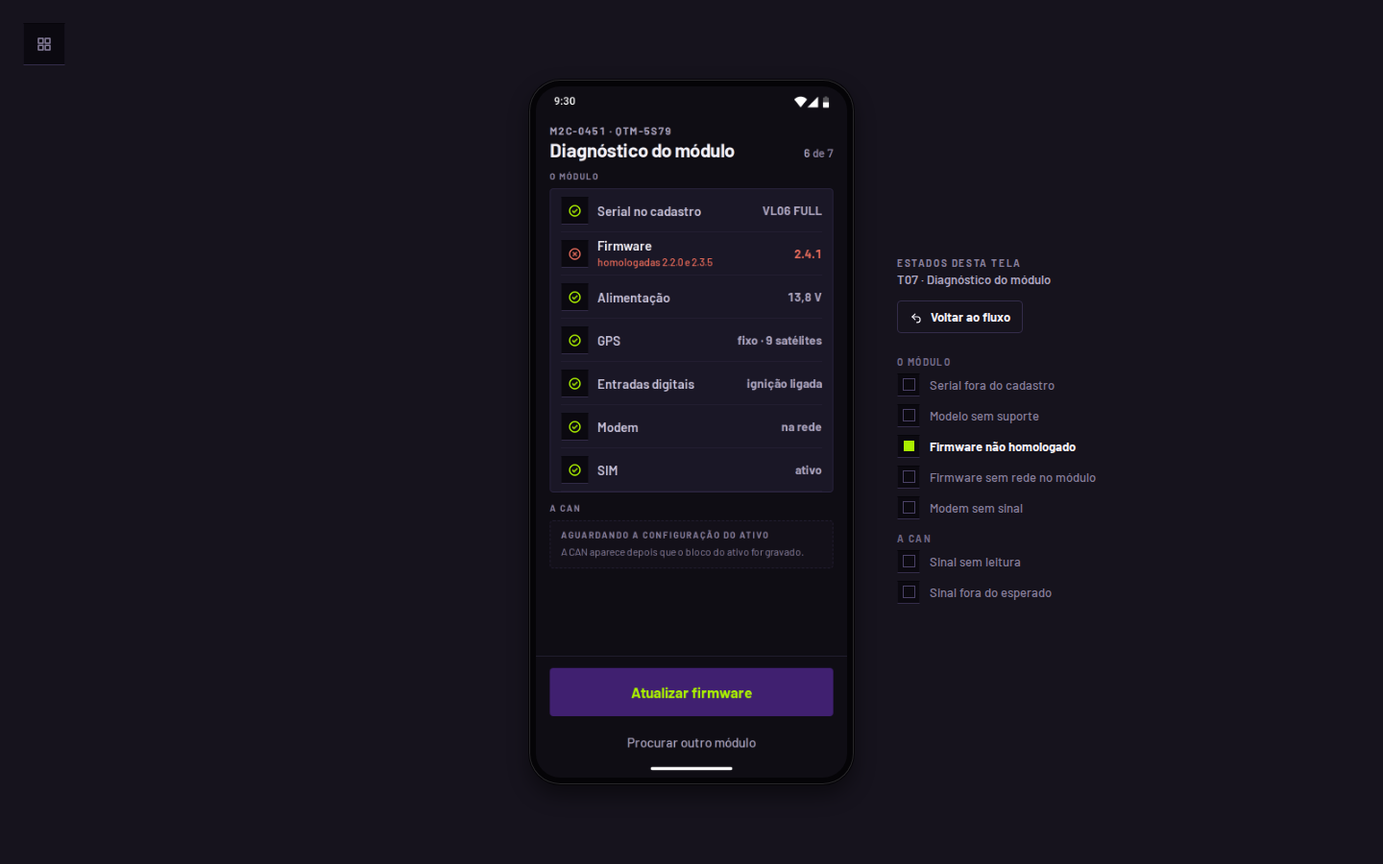
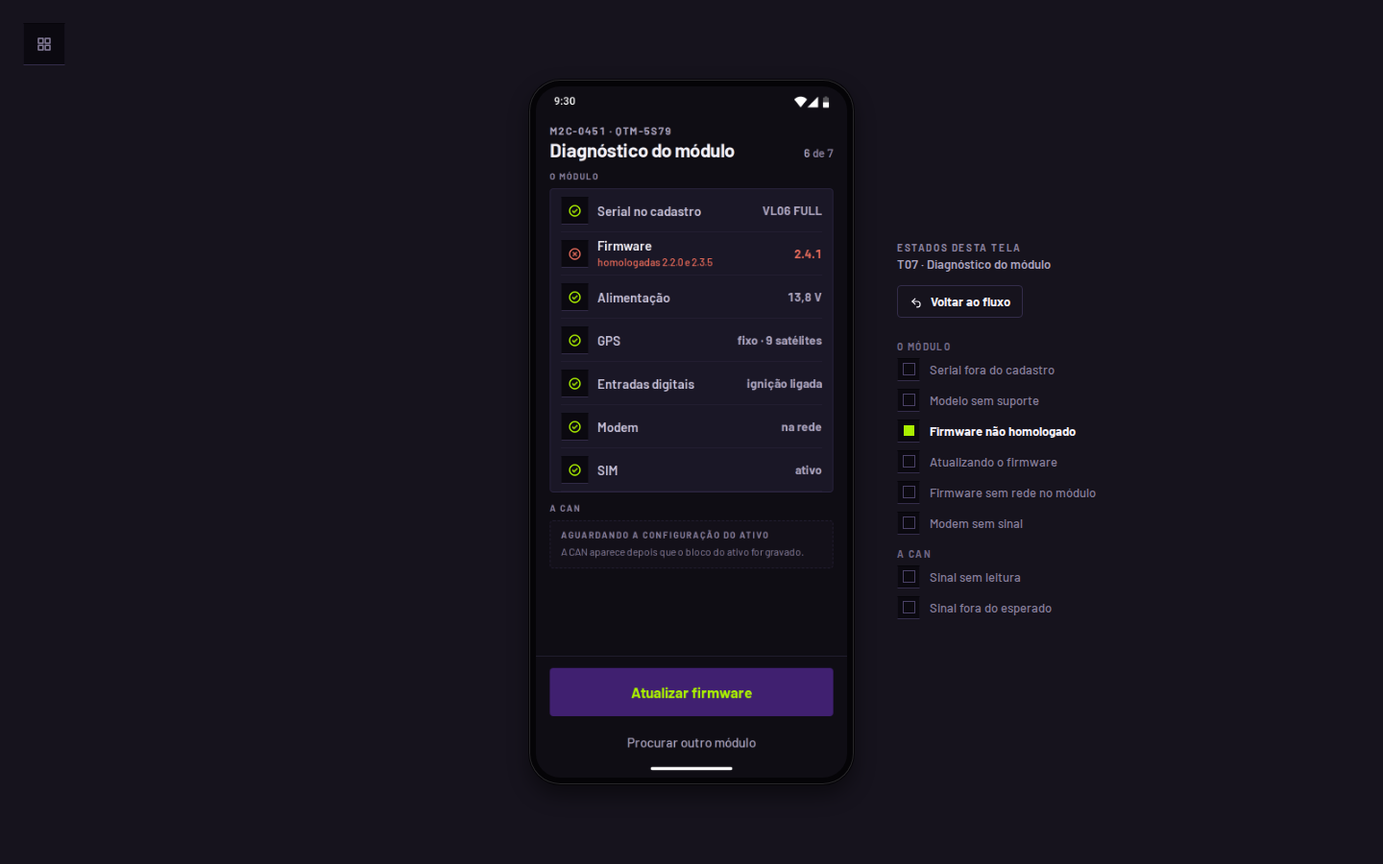
complemento do pacote 6 · o fim do ciclo e a coluna do palco, e o README de protótipo com a propriedade da empresa
A T14/05 diz Ir para o checklist, que serve pras duas portas de entrada. Na coluna do palco, o momento que nasce de um estado entra logo depois dele e abre parado: a T07/06 depois da T07/04 e a T14/06 depois da T14/04. Resultado: 153 referências sem erro e os 43 roteiros aprovados.

O README passa a dizer, no título e no topo, que isto é um protótipo, não o produto, e ganha a seção Propriedade e uso, com a razão social e o CNPJ. Entram também o LICENSE e a licença da Barlow, que faltava. O repositório agora se chama mobs2-configurador-prototipo.

Changed region(s): [[0.625, 0.28, 0.7812, 0.7156]]

diff --git a/06-prototipo/palco/referencias/html/02-num-estado.html b/06-prototipo/palco/referencias/html/02-num-estado.html
@@ -17,7 +17,7 @@ a { color: inherit; text-decoration: none; }
 <div style="position: absolute; left: 934px; top: 78px; width: 230px; display: flex; flex-direction: column; gap: 14px; height: 744px; justify-content: center;">
 <div style="display: flex; flex-direction: column; gap: 3px;"><span style="font-size: 10px; font-weight: 700; letter-spacing: 1.6px; color: #867E9A;">ESTADOS DESTA TELA</span><span style="font-size: 13px; font-weight: 600; color: #A9A2BC;">T07 · Diagnóstico do módulo</span></div>
 <a href="#fluxo" style="height: 34px; box-sizing: border-box; display: flex; align-items: center; gap: 8px; padding: 0 12px; background: #16131D; border: 1px solid #332C49; border-radius: 4px; font-size: 13px; font-weight: 700; color: #F2F0F7; align-self: flex-start;"><svg width="14" height="14" viewBox="0 0 24 24" fill="none" stroke="#F2F0F7" stroke-width="2" stroke-linecap="round" stroke-linejoin="round" aria-hidden="true"><path d="M10 7l-5 5 5 5"></path><path d="M5 12h9a5 5 0 010 10h-1"></path></svg>Voltar ao fluxo</a>
-<div role="radiogroup" aria-label="Estados desta tela" style="display: flex; flex-direction: column;"><span style="font-size: 10px; font-weight: 700; letter-spacing: 1.4px; color: #6E6683; padding: 10px 0 2px 0;">O MÓDULO</span><a href="#e" role="radio" aria-checked="false" style="height: 32px; display: flex; align-items: center; gap: 10px;"><span style="width: 24px; height: 24px; box-sizing: border-box; flex-shrink: 0; background: #0B0910; border-top: 1px solid #06050A; border-bottom: 1px solid #332C49; border-left: 1px solid #14111C; border-right: 1px solid #14111C; display: flex; align-items: center; justify-content: center;"><span style="width: 11px; height: 11px; border: 1px solid #4A4166; display: block;"></span></span><span style="font-size: 13px; font-weight: 500; color: #867E9A;">Serial fora do cadastro</span></a><a href="#e" role="radio" aria-checked="false" style="height: 32px; display: flex; align-items: center; gap: 10px;"><span style="width: 24px; height: 24px; box-sizing: border-box; flex-shrink: 0; background: #0B0910; border-top: 1px solid #06050A; border-bottom: 1px solid #332C49; border-left: 1px solid #14111C; border-right: 1px solid #14111C; display: flex; align-items: center; justify-content: center;"><span style="width: 11px; height: 11px; border: 1px solid #4A4166; display: block;"></span></span><span style="font-size: 13px; font-weight: 500; color: #867E9A;">Modelo sem suporte</span></a><a href="#e" role="radio" aria-checked="true" style="height: 32px; display: flex; align-items: center; gap: 10px;"><span style="width: 24px; height: 24px; box-sizing: border-box; flex-shrink: 0; background: #0B0910; border-top: 1px solid #06050A; border-bottom: 1px solid #332C49; border-left: 1px solid #14111C; border-right: 1px solid #14111C; display: flex; align-items: center; justify-content: center;"><span style="width: 11px; height: 11px; background: #AAEF00; display: block;"></span></span><span style="font-size: 13px; font-weight: 700; color: #F2F0F7;">Firmware não homologado</span></a><a href="#e" role="radio" aria-checked="false" style="height: 32px; display: flex; align-items: center; gap: 10px;"><span style="width: 24px; height: 24px; box-sizing: border-box; flex-shrink: 0; background: #0B0910; border-top: 1px solid #06050A; border-bottom: 1px solid #332C49; border-left: 1px solid #14111C; border-right: 1px solid #14111C; display: flex; align-items: center; justify-content: center;"><span style="width: 11px; height: 11px; border: 1px solid #4A4166; display: block;"></span></span><span style="font-size: 13px; font-weight: 500; color: #867E9A;">Firmware sem rede no módulo</span></a><a href="#e" role="radio" aria-checked="false" style="height: 32px; display: flex; align-items: center; gap: 10px;"><span style="width: 24px; height: 24px; box-sizing: border-box; flex-shrink: 0; background: #0B0910; border-top: 1px solid #06050A; border-bottom: 1px solid #332C49; border-left: 1px solid #14111C; border-right: 1px solid #14111C; display: flex; align-items: center; justify-content: center;"><span style="width: 11px; height: 11px; border: 1px solid #4A4166; display: block;"></span></span><span style="font-size: 13px; font-weight: 500; color: #867E9A;">Modem sem sinal</span></a><span style="font-size: 10px; font-weight: 700; letter-spacing: 1.4px; color: #6E6683; padding: 10px 0 2px 0;">A CAN</span><a href="#e" role="radio" aria-checked="false" style="height: 32px; display: flex; align-items: center; gap: 10px;"><span style="width: 24px; height: 24px; box-sizing: border-box; flex-shrink: 0; background: #0B0910; border-top: 1px solid #06050A; border-bottom: 1px solid #332C49; border-left: 1px solid #14111C; border-right: 1px solid #14111C; display: flex; align-items: center; justify-content: center;"><span style="width: 11px; height: 11px; border: 1px solid #4A4166; display: block;"></span></span><span style="font-size: 13px; font-weight: 500; color: #867E9A;">Sinal sem leitura</span></a><a href="#e" role="radio" aria-checked="false" style="height: 32px; display: flex; align-items: center; gap: 10px;"><span style="width: 24px; height: 24px; box-sizing: border-box; flex-shrink: 0; background: #0B0910; border-top: 1px solid #06050A; border-bottom: 1px solid #332C49; border-left: 1px solid #14111C; border-right: 1px solid #14111C; display: flex; align-items: center; justify-content: center;"><span style="width: 11px; height: 11px; border: 1px solid #4A4166; display: block;"></span></span><span style="font-size: 13px; font-weight: 500; color: #867E9A;">Sinal fora do esperado</span></a></div>
+<div role="radiogroup" aria-label="Estados desta tela" style="display: flex; flex-direction: column;"><span style="font-size: 10px; font-weight: 700; letter-spacing: 1.4px; color: #6E6683; padding: 10px 0 2px 0;">O MÓDULO</span><a href="#e" role="radio" aria-checked="false" style="height: 32px; display: flex; align-items: center; gap: 10px;"><span style="width: 24px; height: 24px; box-sizing: border-box; flex-shrink: 0; background: #0B0910; border-top: 1px solid #06050A; border-bottom: 1px solid #332C49; border-left: 1px solid #14111C; border-right: 1px solid #14111C; display: flex; align-items: center; justify-content: center;"><span style="width: 11px; height: 11px; border: 1px solid #4A4166; display: block;"></span></span><span style="font-size: 13px; font-weight: 500; color: #867E9A;">Serial fora do cadastro</span></a><a href="#e" role="radio" aria-checked="false" style="height: 32px; display: flex; align-items: center; gap: 10px;"><span style="width: 24px; height: 24px; box-sizing: border-box; flex-shrink: 0; background: #0B0910; border-top: 1px solid #06050A; border-bottom: 1px solid #332C49; border-left: 1px solid #14111C; border-right: 1px solid #14111C; display: flex; align-items: center; justify-content: center;"><span style="width: 11px; height: 11px; border: 1px solid #4A4166; display: block;"></span></span><span style="font-size: 13px; font-weight: 500; color: #867E9A;">Modelo sem suporte</span></a><a href="#e" role="radio" aria-checked="true" style="height: 32px; display: flex; align-items: center; gap: 10px;"><span style="width: 24px; height: 24px; box-sizing: border-box; flex-shrink: 0; background: #0B0910; border-top: 1px solid #06050A; border-bottom: 1px solid #332C49; border-left: 1px solid #14111C; border-right: 1px solid #14111C; display: flex; align-items: center; justify-content: center;"><span style="width: 11px; height: 11px; background: #AAEF00; display: block;"></span></span><span style="font-size: 13px; font-weight: 700; color: #F2F0F7;">Firmware não homologado</span></a><a href="#e" role="radio" aria-checked="false" style="height: 32px; display: flex; align-items: center; gap: 10px;"><span style="width: 24px; height: 24px; box-sizing: border-box; flex-shrink: 0; background: #0B0910; border-top: 1px solid #06050A; border-bottom: 1px solid #332C49; border-left: 1px solid #14111C; border-right: 1px solid #14111C; display: flex; align-items: center; justify-content: center;"><span style="width: 11px; height: 11px; border: 1px solid #4A4166; display: block;"></span></span><span style="font-size: 13px; font-weight: 500; color: #867E9A;">Atualizando o firmware</span></a><a href="#e" role="radio" aria-checked="false" style="height: 32px; display: flex; align-items: center; gap: 10px;"><span style="width: 24px; height: 24px; box-sizing: border-box; flex-shrink: 0; background: #0B0910; border-top: 1px solid #06050A; border-bottom: 1px solid #332C49; border-left: 1px solid #14111C; border-right: 1px solid #14111C; display: flex; align-items: center; justify-content: center;"><span style="width: 11px; height: 11px; border: 1px solid #4A4166; display: block;"></span></span><span style="font-size: 13px; font-weight: 500; color: #867E9A;">Firmware sem rede no módulo</span></a><a href="#e" role="radio" aria-checked="false" style="height: 32px; display: flex; align-items: center; gap: 10px;"><span style="width: 24px; height: 24px; box-sizing: border-box; flex-shrink: 0; background: #0B0910; border-top: 1px solid #06050A; border-bottom: 1px solid #332C49; border-left: 1px solid #14111C; border-right: 1px solid #14111C; display: flex; align-items: center; justify-content: center;"><span style="width: 11px; height: 11px; border: 1px solid #4A4166; display: block;"></span></span><span style="font-size: 13px; font-weight: 500; color: #867E9A;">Modem sem sinal</span></a><span style="font-size: 10px; font-weight: 700; letter-spacing: 1.4px; color: #6E6683; padding: 10px 0 2px 0;">A CAN</span><a href="#e" role="radio" aria-checked="false" style="height: 32px; display: flex; align-items: center; gap: 10px;"><span style="width: 24px; height: 24px; box-sizing: border-box; flex-shrink: 0; background: #0B0910; border-top: 1px solid #06050A; border-bottom: 1px solid #332C49; border-left: 1px solid #14111C; border-right: 1px solid #14111C; display: flex; align-items: center; justify-content: center;"><span style="width: 11px; height: 11px; border: 1px solid #4A4166; display: block;"></span></span><span style="font-size: 13px; font-weight: 500; color: #867E9A;">Sinal sem leitura</span></a><a href="#e" role="radio" aria-checked="false" style="height: 32px; display: flex; align-items: center; gap: 10px;"><span style="width: 24px; height: 24px; box-sizing: border-box; flex-shrink: 0; background: #0B0910; border-top: 1px solid #06050A; border-bottom: 1px solid #332C49; border-left: 1px solid #14111C; border-right: 1px solid #14111C; display: flex; align-items: center; justify-content: center;"><span style="width: 11px; height: 11px; border: 1px solid #4A4166; display: block;"></span></span><span style="font-size: 13px; font-weight: 500; color: #867E9A;">Sinal fora do esperado</span></a></div>
 </div>
 </div>
 </body>

diff --git a/06-prototipo/app/src/telas/T14/index.jsx b/06-prototipo/app/src/telas/T14/index.jsx
@@ -63,7 +63,7 @@ import './t14.css'
 // prazo acabou sem o evento) · 'concluido'. tique: os segundos de prazo desde o disparo.
 function inicio(momento, est, unico) {
   const doCaso = { [REF.estourado]: CASO_SEM_RESPOSTA, [REF.fora]: CASO_MOTOR, [REF.identificador]: CASO_IDENTIFICADOR }[est]
-    ?? (momento === REF.corrigida ? CASO_IDENTIFICADOR : null)
+    ?? (momento === REF.corrigida || est === REF.corrigida ? CASO_IDENTIFICADOR : null)
   const par = doCaso ? parDoCaso(doCaso) : parDaSessao(unico.sessao)
   // num estado da coluna, o caso vale sempre (a receita); no fluxo, uma vez por sessão
   const casos = casosDoPar(par, est ? [] : unico.casosConsumidos)
@@ -73,9 +73,11 @@ function inicio(momento, est, unico) {
   if (est === REF.estourado) return { ...base, fase: 'estourado', tique: PRAZO, passos: passosFeitos(lista, casos) }
   // o pacote 6: o identificador (04, 06) para na vez da ignição — a ré e a porta feitas, o
   // cartão reprovado na vez dele; os outros estados, no quadro da 00
-  if (est === REF.identificador || momento === REF.corrigida) {
+  // a 06 também abre pela coluna, parada, logo depois da 04 (o complemento do pacote 6: `depoisDe`)
+  const corrigida = momento === REF.corrigida || est === REF.corrigida
+  if (est === REF.identificador || corrigida) {
     const tique = tiqueDe(lista, CHAVE.cartao)
-    return { ...base, fase: 'correndo', tique, passos: passosAte(lista, casos, tique), correcao: momento === REF.corrigida }
+    return { ...base, fase: 'correndo', tique, passos: passosAte(lista, casos, tique), correcao: corrigida }
   }
   if (est != null) return { ...base, fase: 'correndo', tique: QUADRO_00, passos: passosNaEntrada(lista, casos) }
   // a 07 e a 08 (o pacote 6): a vez da porta e a do cartão, pela URL, paradas
@@ -297,7 +299,8 @@ export default function T14({ momento, estado: est }) {
   } else if (estourado) {
     rodape = <Rodape primario={T.dispararOutro} aoPrimario={dispararOutro} link={T.irAoChecklist} aoLink={irAoChecklist} />
   } else if (fase === 'concluido') {
-    rodape = <Rodape primario={T.voltarAoChecklist} aoPrimario={() => ir('T13')} link={T.voltarAoMenu} aoLink={() => ir('T04')} />
+    // o complemento do pacote 6: Ir para o checklist, que vale pras duas portas de entrada (a calibração e o checklist)
+    rodape = <Rodape primario={T.irAoChecklist} aoPrimario={() => ir('T13')} link={T.voltarAoMenu} aoLink={() => ir('T04')} />
   } else if (cartaoReprovado) {
     rodape = (
       <Rodape primario={T.encerrarCiclo} aoPrimario={encerrarCiclo} primarioTrocaTexto primarioAcende

diff --git a/06-prototipo/app/src/palco/telas.js b/06-prototipo/app/src/palco/telas.js
@@ -16,7 +16,13 @@ export const REFERENCIAS = indice.itens
 // a coluna (o pacote 3, D2): quem entra é o campo `coluna` do indice.json — falso pros estados que abrem
 // por um toque (as três folhas de trocar da T04: a 08, a 09 e a 14), e, sem o campo, o estado entra. Fora
 // da coluna, o estado continua abrindo pelo endereço
-export const estadosDa = (tela) => REFERENCIAS.filter((r) => r.tela === tela && r.tipo === 'estado' && r.coluna !== false)
+// os estados da coluna, e o momento que nasce de dentro de um estado, logo depois dele (o
+// complemento do pacote 6: `coluna` verdadeiro e `depoisDe`, no indice.json) — abre parado, como os estados
+export const estadosDa = (tela) => {
+  const estados = REFERENCIAS.filter((r) => r.tela === tela && r.tipo === 'estado' && r.coluna !== false)
+  const filhos = REFERENCIAS.filter((r) => r.tela === tela && r.tipo === 'momento' && r.coluna === true && r.depoisDe)
+  return estados.flatMap((e) => [e, ...filhos.filter((m) => m.depoisDe === e.id)])
+}
 export const momentosDa = (tela) => REFERENCIAS.filter((r) => r.tela === tela && r.tipo === 'momento')
 // a regra dos seis (palco.md): com mais de seis estados na coluna, eles se agrupam — só a T07, pelo `grupo` do indice.json
 export const GRUPOS = { T07: [['modulo', 'O módulo'], ['can', 'A CAN']] }

diff --git a/02-telas/T14-ciclo-dinamico/referencias/html/05-momento-ciclo-concluido.html b/02-telas/T14-ciclo-dinamico/referencias/html/05-momento-ciclo-concluido.html
@@ -89,7 +89,7 @@ a { color: inherit; text-decoration: none; }
         </div> </div>
   </div>
   <div style="flex-shrink: 0; padding: 13px 16px 24px 16px; box-sizing: border-box; display: flex; flex-direction: column; gap: 8px; border-top: 1px solid #221D2E;">
-    <a href="#p" style="height: 56px; border-radius: 4px; background: #402070; color: #AAEF00; font-size: 17px; font-weight: 700; display: flex; align-items: center; justify-content: center; text-decoration: none;">Voltar ao checklist</a>
+    <a href="#p" style="height: 56px; border-radius: 4px; background: #402070; color: #AAEF00; font-size: 17px; font-weight: 700; display: flex; align-items: center; justify-content: center; text-decoration: none;">Ir para o checklist</a>
     <a href="#l" style="height: 44px; margin: 0 0 -5px 0; color: #A9A2BC; font-size: 15px; font-weight: 500; display: flex; align-items: center; justify-content: center; text-decoration: none;">Voltar ao menu</a>
   </div>
 <div data-sistema="navegacao-por-gestos" style="position: absolute; left: 0; bottom: 0; width: 360px; height: 20.97px; z-index: 50; pointer-events: none;"><svg width="360" height="20.97" viewBox="0 0 412 24" aria-hidden="true" style="display: block;" fill="none" xmlns="http://www.w3.org/2000/svg">

diff --git a/06-prototipo/app/src/telas/T07/index.jsx b/06-prototipo/app/src/telas/T07/index.jsx
@@ -107,6 +107,11 @@ function inicio(momento, unico) {
 // os estados da coluna, montados pela receita e parados: o módulo do caso, na
 // conexão (02 a 07), ou a CAN lida do ativo do caso (08, 09)
 function quadroDoEstado(est) {
+  // a 06 também abre pela coluna, parada, logo depois da 04 (o complemento do pacote 6: `depoisDe`)
+  if (est === REF.atualizando) {
+    const caso = M.casos[CASO_FIRMWARE]
+    return quadro({ serial: serialDoCaso(CASO_FIRMWARE), ativoId: null, feitas: LINHA_FIRMWARE, atualizando: caso.atualizacao.quadroPct })
+  }
   const casos = est ? casosDoEstado(est) : null
   if (!casos) return null
   const k = casos[0]

diff --git a/06-prototipo/app/src/telas/T14/textos.js b/06-prototipo/app/src/telas/T14/textos.js
@@ -42,7 +42,6 @@ export const T = {
   dispararOutro: 'Disparar outro evento',
   encerrarCiclo: 'Encerrar o ciclo',
   irAoChecklist: 'Ir para o checklist',
-  voltarAoChecklist: 'Voltar ao checklist',
   voltarAoMenu: 'Voltar ao menu',
   solicitar: 'Solicitar correção de cadastro',
   solicitada: (hora) => `Correção solicitada às ${hora}`,

diff --git a/README.md b/README.md
@@ -1,6 +1,10 @@
-# Mobs2 Configurador
+# Mobs2 Configurador · protótipo
 
 Aplicativo mobile de instalação, configuração e homologação de módulos de telemetria embarcados, usado pelo técnico de campo. Este repositório reúne o design do produto, o design system e o protótipo navegável construído a partir deles.
+
+> **Isto é um protótipo, não o produto.** O app daqui roda no navegador, com dados de exemplo e sem módulo, servidor ou Bluetooth de verdade. Ele serve de referência pra construir o produto: o comportamento, os textos e o desenho de cada tela. O código do produto vai noutro repositório, e quem vai desenvolver começa por [`08-para-o-dev/`](08-para-o-dev/).
+>
+> Propriedade da **MOBS2 COMERCIO E SERVICOS LTDA - EPP**. Conteúdo para consulta: usar, copiar ou distribuir depende de autorização por escrito. Veja [Propriedade e uso](#propriedade-e-uso).
 
 <p align="center">
   <img src="05-recursos/readme/caminho-do-heroi.gif" alt="O caminho do técnico no protótipo: o login, a empresa e a unidade, o pacote do dia, o menu, a conexão com o módulo, o diagnóstico, o vínculo com o ônibus, o que vai ser gravado e a configuração gravada e relida" width="330">
@@ -24,7 +28,7 @@ O app conduz a instalação em sequência e prova cada passo:
 4. **Vincula** o módulo ao ônibus, confirmado pela placa, frota, fabricante e modelo.
 5. **Grava a configuração** em seis blocos, cada um relido no módulo pra provar que chegou.
 6. **Calibra** o hodômetro e, quando o modelo tem, o horímetro.
-7. **Roda o ciclo de testes** com o ônibus parado: ignição, rotação, ré, porta e cartão do motorista.
+7. **Roda o ciclo de testes** com o ônibus parado: ignição, rotação, ré, porta, cartão do motorista e ignição desligada — a cada passo, o app diz o que o técnico tem que fazer.
 8. **Fecha o checklist** de 31 itens — o app confere o que consegue sozinho e o técnico fotografa o resto — e encerra a sessão.
 
 Nenhuma tela expõe comando, sintaxe ou parâmetro técnico: o técnico responde perguntas de negócio, e o app fala com o módulo.
@@ -34,7 +38,7 @@ Nenhuma tela expõe comando, sintaxe ou parâmetro técnico: o técnico responde
 O protótipo roda no navegador e anda só por toque, do login ao encerramento. No computador, o celular aparece em tamanho real dentro de um palco:
 
 - o quadrado no canto abre o painel com as 15 telas;
-- a coluna ao lado lista os estados da tela aberta — sem rede, módulo que não responde, pacote vencido —, cada um montado pelo seu caso nos dados de exemplo;
+- a coluna ao lado lista os estados da tela aberta — sem rede, módulo que não responde, pacote vencido —, cada um montado pelo seu caso nos dados de exemplo, e, logo depois de cada estado, o momento que nasce dele, quando há;
 - cada tela, momento e estado tem um link próprio (`?tela=T07&estado=02-estado-serial-nao-cadastrado`).
 
 No celular, o app ocupa a tela inteira.
@@ -73,3 +77,23 @@ npm run dev
 ```
 
 Abre em `http://localhost:5173`. As verificações ficam na mesma pasta: `npm run checar` e `npm run build`; com os fotógrafos rodando (`npm run fotografo` e `npm run fotografo:1`), `node scripts/tela.mjs todas` compara as 153 referências e `node scripts/caminho.mjs todos` roda os roteiros.
+
+## Propriedade e uso
+
+**Este repositório é propriedade da MOBS2 COMERCIO E SERVICOS LTDA - EPP**, CNPJ 10.938.384/0001-41. © 2026. Todos os direitos reservados.
+
+**O que é da empresa:** tudo o que está aqui — o produto e as regras de negócio, o design das telas, o design system, os textos, as referências desenhadas, os dados de exemplo e o código do protótipo.
+
+**O que é permitido:** abrir, ler e navegar pelo conteúdo e pelo protótipo publicado, para consulta.
+
+**O que depende de autorização prévia e por escrito da empresa:**
+- copiar ou reproduzir qualquer parte, no todo ou em parte;
+- usar o conteúdo em outro produto, projeto ou trabalho;
+- modificar, publicar, distribuir ou repassar a terceiros.
+
+Estar visível não significa estar liberado para uso. Os termos completos estão no [`LICENSE`](LICENSE).
+
+**O que é de terceiros** segue a licença de cada um, e não é da empresa:
+- as fontes **Barlow** e o recorte da **Google Sans**, sob a SIL Open Font License 1.1, com o texto da licença em [`05-recursos/fontes/`](05-recursos/fontes/);
+- os ícones do **Lucide**, sob a licença ISC;
+- as barras do sistema, do kit do **Material 3**, do Google.

diff --git a/06-prototipo/para-o-arquiteto/pedido-T14-correcao-de-cadastro.md b/06-prototipo/para-o-arquiteto/pedido-T14-correcao-de-cadastro.md
@@ -1,0 +1,29 @@
+# Pedido ao arquiteto · o que acontece depois do "Solicitar correção de cadastro" (T14)
+
+## O que medi
+
+O toque está desenhado e construído: é a T14/06. O link vira o registro *Correção solicitada às 14:30*, não tocável, e o pedido fica gravado na sessão com o código lido, o esperado e a hora.
+
+O depois não está desenhado. Os requisitos (§4.7) dizem que o técnico "sai da visita com o pedido aberto e o diagnóstico pronto", mas o pedido não aparece em mais lugar nenhum:
+
+1. **Na fila de saída (T15):** a fila só tem *Evidências da instalação* e *Checklist de homologação*. O pedido feito sem rede não tem como subir, e o técnico não vê que ele saiu.
+2. **No checklist (T13):** a Seção E mostra o *Cartão do motorista* reprovado, sem dizer que a correção foi pedida.
+3. **Na homologação:** com o cartão reprovado, a Seção E reprova. Não está escrito se a instalação homologa com o pedido aberto, com ressalva, ou se trava até o cadastro ser corrigido.
+4. **Depois da correção:** não está escrito se o técnico refaz só o passo do cartão ou o ciclo inteiro, nem como ele fica sabendo que o cadastro foi corrigido.
+
+## As decisões (o padrão que eu adotaria entre parênteses)
+
+1. **O pedido entra na fila de saída.** (Sim, como um item novo, *Pedido de correção de cadastro*, com o ativo. Ele sobe como as evidências e mostra os mesmos estados: na fila, enviando, recebido, erro.)
+2. **O checklist mostra o pedido.** (Sim. Na linha do *Cartão do motorista* da Seção E, a causa diz que a correção foi pedida, com a hora: algo como *correção pedida às 14:30*. O texto é seu.)
+3. **A homologação com o pedido aberto.** (É do PM. O meu padrão seria a Seção E reprovar como hoje, e a instalação poder ser salva com ressalva citando o pedido, sem homologar até o cartão passar.)
+4. **Depois da correção.** (É do PM. O meu padrão seria refazer só o passo do cartão, numa visita nova, com o cadastro corrigido vindo no pacote da sincronização.)
+
+## O que o pacote traria
+
+- **Dois estados novos** (uma condição do mundo, montada por caso do mock):
+  - **T15 · o pedido na fila de saída:** com o tipo novo de item;
+  - **T13 · a Seção E com o cartão reprovado e a correção pedida:** pelo caso que já existe, `identificador-divergente`.
+- **Na T14, nada novo:** o toque já tem o quadro dele, o momento `06`.
+- **Mais estados, se as decisões 3 e 4 pedirem.**
+- **O mock:** um tipo novo na fila de saída e o caso do pedido.
+- **Os documentos:** T13, T15 e T14 (`tela.md`, `textos.md`, `estados.md`), a `logica.md` e, pro dev, `08-para-o-dev/o-que-o-produto-ainda-decide.md`.

diff --git a/06-prototipo/logica.md b/06-prototipo/logica.md
@@ -166,7 +166,7 @@ A T08 saiu inteira, e a releitura mora na própria T07: com o bloco do ativo gra
 - **a entrada:** a tela entra no quadro da 01 — a fila do módulo drenando, o prazo cheio, o disparo indisponível (G27). A fila é a de todo módulo (`ciclo.mensagensGuardadas`, 6 e 2) ou, no serial do `modulo-com-pendencias`, a dele (12 e 3), e drena em 3 s; o `Disparar evento de teste` acende
 - **o ritmo:** disparado, o prazo de 2:00 anda 4 s por segundo real. A semente traz 2 passos feitos; os passos 3 a 5 acendem a +9, +12 e +15 s do disparo (T14·1, `ritmos.js`). O evento chega aos 24 s do prazo — a 00 é o instante antes, 1:36 — e os campos conferem aos 33 (`6 de 6`, `ciclo.evento.campos`). Chegou, o número passa a ser o tempo que ele levou (0:24), e a barra para no que restava. Os cinco passos e o evento → 05
 - **os casos, pelo par da faixa (G28):** o `evento-sem-resposta` (M2C-0335 + KHT-4B08) estoura o prazo na 1ª tentativa, uma vez por sessão (G21), e `Disparar outro evento` confirma na 2ª, com os passos valendo · o `can-fora-esperado` (QJF-2C61) reprova o passo que o sinal prova (`ciclo.passoDoSinal`: velocidade → Movimento detectado) · o `identificador-divergente` (PCX-9A17) acrescenta a linha do teste do cartão, que só existe com o caso (T14·3). Os dois últimos são fato do veículo e do cadastro: valem toda vez
-- **as saídas:** `Encerrar o ciclo` fecha a captura, e os pendentes ficam pendentes na Seção E; `Ir para o checklist` sai com o ciclo aberto — os dois → T13 (T14·2). Concluído, `Voltar ao checklist` → T13 e `Voltar ao menu` → T04 (T14·4). `Solicitar correção de cadastro` vira o registro no mesmo lugar, com a hora do protótipo e os dois valores anexados
+- **as saídas:** `Encerrar o ciclo` fecha a captura, e os pendentes ficam pendentes na Seção E; `Ir para o checklist` sai com o ciclo aberto — os dois → T13 (T14·2). Concluído, `Ir para o checklist` → T13 e `Voltar ao menu` → T04 (T14·4). `Solicitar correção de cadastro` vira o registro no mesmo lugar, com a hora do protótipo e os dois valores anexados
 - **o que fica gravado:** `etapas.ciclo` guarda o par, os passos pelo id do item da Seção E (`aprovada`, `reprovada` ou `pendente`), quantos foram feitos, o evento (`antes`, `disparado`, `recebido`, `conferido` ou `nao-chegou`) e a tentativa, o cartão e a correção pedida (o lido, o esperado e 14:30), se o ciclo concluiu e se a captura foi fechada. Voltar à T14 com o ciclo aberto, no mesmo par, retoma os passos que já valem e a correção; o evento se dispara de novo. Concluído, ela abre concluída
 
 ## O checklist (T13·1 a T13·6)

diff --git a/CHANGELOG.md b/CHANGELOG.md
@@ -14,6 +14,8 @@
 - **a recusa da T15/02 em duas linhas**: *o servidor recusou* numa, *instalação encerrada por outro usuário* na outra · antes, o *usuário* ficava sozinho · e a regra no `componentes.md`, *Duas ideias numa linha*: quando o rótulo com · não cabe, quebra no ·, em duas linhas de verdade, sem o ·
 - **a lógica do protótipo** lista todos os momentos — os oito do pacote 5 tinham ficado de fora da tabela
 
+- **o fim do ciclo diz *Ir para o checklist***, na T14/05 · o *Voltar ao checklist* só era verdade pra quem veio do checklist; no caminho principal, calibra, ciclo, checklist, o técnico ainda nem tinha aberto o checklist · *Ir para* serve pras duas portas, sem lógica de origem
+- **o palco: o momento que nasce de dentro de um estado aparece na coluna**, logo depois dele, alinhado · o *correção solicitada* (T14/06) depois do *identificador divergente*, e o *atualizando o firmware* (T07/06) depois do *firmware não homologado* · antes, só se chegava neles tocando dentro do estado, que no palco abre parado · no índice, o campo `depoisDe` · a cena 02 do palco mostra o exemplo
 - **no protótipo** (o gate em `06-prototipo/para-o-arquiteto/gate-pacote6.md`, as folhas lado a lado em `pacote6/`):
   - o complemento é idêntico, byte a byte, ao pacote 6 já aplicado;
   - as 153 sem erro, e as mudadas entre 0% e 0,1%;
@@ -23,7 +25,7 @@
   - o `Procurar de novo` apagado da T05/06 em `--tinta-apagada` (a lei 17), onde a referência desenha `--marca`;
   - o marcador branco da escala da T14 no que restava, o caso da `05`, agora também na 04, 06, 07 e 08;
   - o arraste da folha da T11 fecha nos 56px de toda folha, e não em 1/3 da altura.
-
+- **o complemento, segunda versão** (no protótipo): o texto da T14/05 e a coluna do palco · a `T07/06` e a `T14/06` entram na coluna logo depois do estado de onde nascem, com o rótulo *Atualizando o firmware* (da cena 02) e *Correção solicitada* (proposto), e abrem paradas: as duas telas leem o momento como estado (`app/src/palco/telas.js` · `estadosDa`) · o GIF não muda: o caminho dele não passa pela T14 nem pela coluna
 ## 2026-10-03 · o pacote 5 — os momentos que faltavam, e o RV no centro
 
 - **oito referências novas, todas *momento*** (lei 24) — o meio das leituras e das gravações, que existia só por escrito: **T01/19** entrando · **T05/05** procurando · **T07/11** lendo · **T09/10** manutenção concluída · **T10/06** gravando no módulo · **T10/07** relendo · **T11/04** conferindo · **T16/07** o autoteste correndo · 142 → **150** referências, 62 → **70** momentos

diff --git a/06-prototipo/palco.md b/06-prototipo/palco.md
@@ -25,6 +25,7 @@ A tela aberta aparece marcada. As folhas não entram no painel: são momentos da
 
 - lista **só os estados** da tela aberta — momento é fluxo e não entra
 - **quem entra na coluna é o campo `coluna` do `indice.json`**: verdadeiro pros estados que nascem de uma condição do mundo, falso pros que abrem por um toque — hoje, as três folhas de trocar da T04 (08, 09 e 14). A coluna da T04 mostra 4 dos 7
+- **o momento que nasce de dentro de um estado também entra**, logo depois dele, **alinhado às outras linhas**: no índice, `coluna` verdadeiro e `depoisDe` com o estado de onde ele nasce · abre parado, como os estados · hoje são dois: a T07/06, *atualizando o firmware*, depois da T07/04, e a T14/06, *correção solicitada*, depois da T14/04 · sem isso, eles só se alcançam tocando dentro de um estado, e o estado aberto pela coluna é parado
 - com mais de seis estados **na coluna** — e a coluna só lista os estados que nascem de uma condição —, eles se agrupam pelo que o técnico estava fazendo — na T07: o módulo e a CAN
   - no protótipo (o pacote 1): o grupo é o `grupo` de cada estado no `02-telas/indice.json`, `modulo` ou `can`, que a coluna escreve *O módulo* e *A CAN* — o `scripts/testar-estado.mjs` (no `npm run checar`) confere que todo estado da T07 tem um. A coluna do protótipo lista os estados do `indice.json`: a da T01 tem 8 e a da T04 tem 4, e as duas ficam soltas, porque só a T07 tem grupo. O *T01 e T02 não mostram coluna* da cena 00 vai pro arquiteto
   - no protótipo (o pacote 3, D2): a coluna lê o campo `coluna` de cada estado no `indice.json` (`app/src/palco/telas.js` · `estadosDa`) — falso, fica fora; sem o campo, entra. Fora da coluna, a 08, a 09 e a 14 da T04 continuam abrindo pelo endereço, com o `Voltar ao fluxo` no topo e nenhuma linha marcada. A folha da cena 00 desenha 3 linhas da coluna da T04, e a coluna tem 4 (o Sem conexão é a quarta): a bancada do palco dá a diferença com o nome

diff --git a/02-telas/T14-ciclo-dinamico/tela.md b/02-telas/T14-ciclo-dinamico/tela.md
@@ -26,7 +26,7 @@ Com a ignição ligada e o ônibus parado, deixar o app provar o que o módulo l
   - no protótipo · a nossa versão desta linha, antes desta entrega: prazo estourado (`evento-sem-resposta`, uma vez por sessão): `Disparar outro evento` — os passos continuam valendo, e a segunda tentativa confirma
 - identificador divergente: `Solicitar correção de cadastro` → o link vira o registro, *Correção solicitada às 14:30*, e deixa de ser tocável
   - no protótipo (a emenda que estava na linha antiga do design — pra o arquiteto ver): → o link vira o registro no mesmo lugar e do mesmo tamanho, com o relógio, *Correção solicitada às 14:30* (a hora do protótipo), e deixa de ser tocável — é o momento `06`, do caso `identificador-divergente`. Pro leitor de tela, o registro é um aviso de status, não um botão
-- ciclo concluído: `Voltar ao checklist` → T13 · `Voltar ao menu` → T04 (T14·4)
+- ciclo concluído: `Ir para o checklist` → T13 · `Voltar ao menu` → T04 (T14·4) · o complemento do pacote 6: *Ir*, e não *Voltar*, serve pras duas portas de entrada, a calibração e o checklist
 - `ENCERRAR` → a sessão abortada antes de homologar (G23)
   - **no protótipo** (decisão 36): antes de homologar, o ENCERRAR abre o diálogo *Encerrar sem homologar?* por cima desta tela, e o `Continuar a instalação` deixa o técnico nela — a resposta do arquiteto de 26/09 · o `Encerrar sem homologar` roda os 4 passos da T16 · o ciclo continua correndo embaixo do diálogo, porque o técnico ainda não decidiu nada (padrão do protótipo, pro arquiteto; a alternativa é pausar)
 - o voltar do Android (no computador, o Esc) faz o mesmo que o link de saída do rodapé (`logica.md`): `Ir para o checklist`, com o ciclo aberto, e no ciclo concluído `Voltar ao menu`. Com o caso de identificador, o link do rodapé é o pedido de correção, que não sai, e o voltar não faz nada
